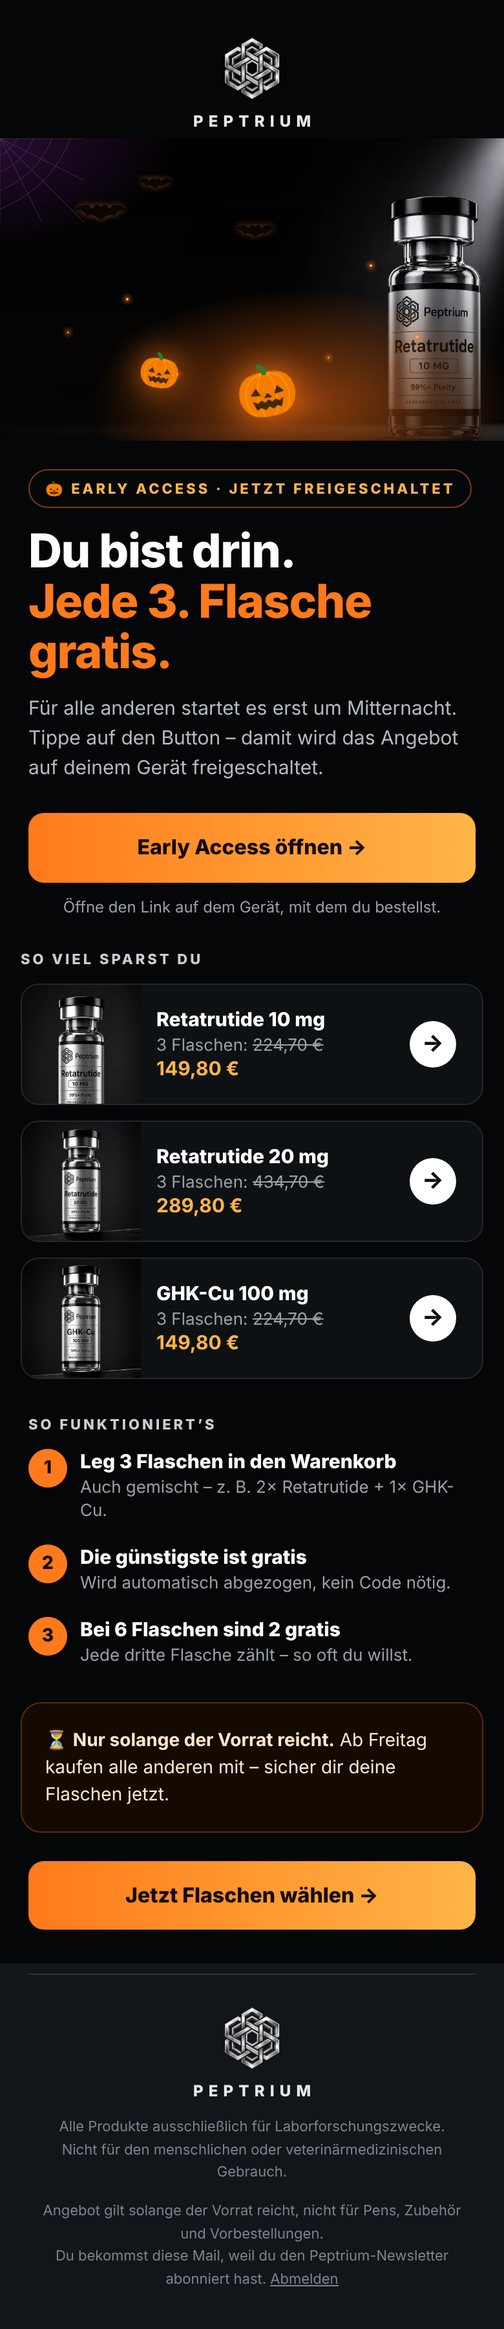
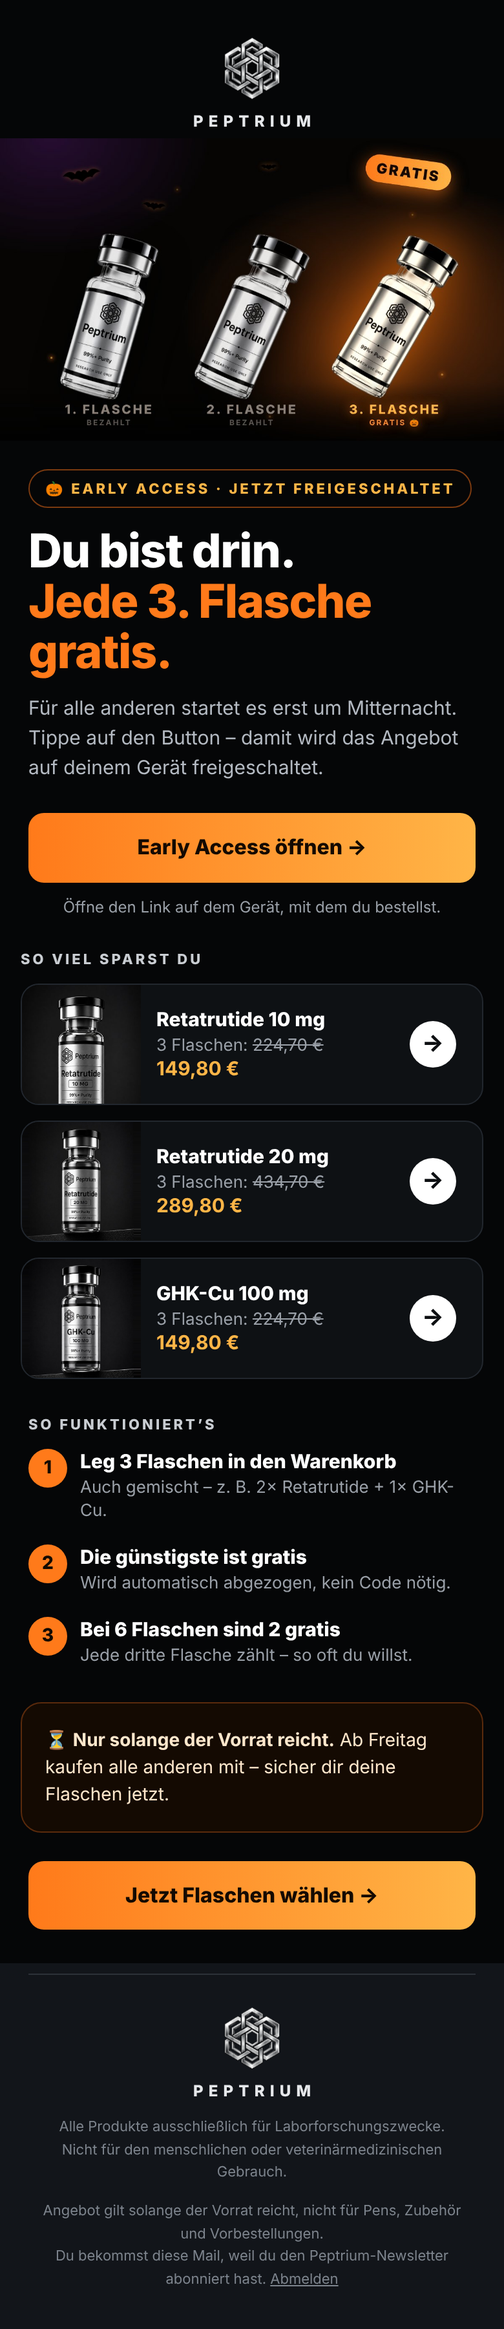
Halloween: Kauf-Anreize (Countdown, Spar-Block, Gratis-Flasche per Klick), Mail-Bild mit 1./2./3. Flasche
Claude-Session: https://claude.ai/code/session_011YY7DBkbr5BcFGKyLoSbVN

Changed region(s): [[0.1231, 0.0622, 1.0, 0.1865]]

diff --git a/drafts/halloween-2026-10-22/mails/hv/a.html b/drafts/halloween-2026-10-22/mails/hv/a.html
@@ -1,17 +1,18 @@
 <!doctype html><html><head><meta charset="utf-8"><link rel="stylesheet" href="base.css"><style>
 body{background:radial-gradient(60% 70% at 78% 62%,rgba(255,110,20,.42),transparent 70%),radial-gradient(45% 55% at 10% 0%,rgba(110,30,150,.30),transparent 70%),#060504}
-.v{position:absolute;bottom:60px;width:300px}
+.v{position:absolute;bottom:96px;width:270px}
 .v img{width:100%;display:block;filter:drop-shadow(0 30px 40px rgba(0,0,0,.8))}
-.v1{left:110px;transform:rotate(-6deg);opacity:.92}.v2{left:450px;transform:rotate(2deg);opacity:.92}
-.v3{left:790px;transform:rotate(8deg)}
+.v1{left:125px;transform:rotate(-6deg);opacity:.92}.v2{left:465px;transform:rotate(2deg);opacity:.92}
+.v3{left:805px;transform:rotate(8deg)}
 .v3 img{filter:drop-shadow(0 0 60px rgba(255,122,26,.75)) drop-shadow(0 30px 40px rgba(0,0,0,.6)) sepia(.25) saturate(1.4)}
 .n{position:absolute;bottom:22px;width:300px;text-align:center;font:800 26px/1 Inter,Arial;letter-spacing:.2em;color:#6E655D}
 .tag{position:absolute;left:870px;top:48px;background:linear-gradient(90deg,#FF7A1A,#FFB547);color:#140A02;font:900 34px/1 Inter,Arial;letter-spacing:.12em;padding:16px 26px;border-radius:99px;transform:rotate(8deg);box-shadow:0 12px 40px rgba(255,122,26,.6)}
+.lb{position:absolute;bottom:34px;width:300px;text-align:center;font:800 30px/1 Inter,Arial;letter-spacing:.14em;color:#8A8078;z-index:3}.lb.g{color:#FFB547;text-shadow:0 0 24px rgba(255,122,26,.7)}.lb small{display:block;font:700 18px/1 Inter,Arial;letter-spacing:.2em;margin-top:8px;color:#5E5650}.lb.g small{color:#FF8A2A}
 .floor{position:absolute;left:0;right:0;bottom:0;height:140px;background:linear-gradient(180deg,transparent,rgba(0,0,0,.85))}
 </style></head><body>
 <svg viewBox="0 0 24 12" class="bat" style="left:150px;top:70px;width:90px;height:45px;transform:rotate(-8deg)"><path d="M0 4C3 1 6 1 8 3.5 9 1.5 10.5 1 12 2.6 13.5 1 15 1.5 16 3.5 18 1 21 1 24 4 21.5 4 19.6 5 18.6 7 16.8 6 14.6 6.4 12 9 9.4 6.4 7.2 6 5.4 7 4.4 5 2.5 4 0 4Z"/></svg><svg viewBox="0 0 24 12" class="bat" style="left:340px;top:150px;width:54px;height:27px;transform:rotate(6deg)"><path d="M0 4C3 1 6 1 8 3.5 9 1.5 10.5 1 12 2.6 13.5 1 15 1.5 16 3.5 18 1 21 1 24 4 21.5 4 19.6 5 18.6 7 16.8 6 14.6 6.4 12 9 9.4 6.4 7.2 6 5.4 7 4.4 5 2.5 4 0 4Z"/></svg><svg viewBox="0 0 24 12" class="bat" style="left:620px;top:60px;width:40px;height:20px"><path d="M0 4C3 1 6 1 8 3.5 9 1.5 10.5 1 12 2.6 13.5 1 15 1.5 16 3.5 18 1 21 1 24 4 21.5 4 19.6 5 18.6 7 16.8 6 14.6 6.4 12 9 9.4 6.4 7.2 6 5.4 7 4.4 5 2.5 4 0 4Z"/></svg>
 <i class="ember" style="left:120px;top:520px;opacity:.7"></i><i class="ember" style="left:260px;top:610px;opacity:.5"></i><i class="ember" style="left:1050px;top:560px;opacity:.6"></i><i class="ember" style="left:980px;top:180px;opacity:.4;width:4px;height:4px"></i><i class="ember" style="left:640px;top:660px;opacity:.6"></i><i class="ember" style="left:420px;top:120px;opacity:.35;width:4px;height:4px"></i>
 <div class="v v1"><img src="https://peptrium.com/wp-content/uploads/2026/08/retatrutide-tilted-glass-v3.png"></div><div class="v v2"><img src="https://peptrium.com/wp-content/uploads/2026/08/retatrutide-tilted-glass-v3.png"></div><div class="v v3"><img src="https://peptrium.com/wp-content/uploads/2026/08/retatrutide-tilted-glass-v3.png"></div>
 <div class="floor"></div>
-<div class="tag">GRATIS</div>
+<div class="tag">GRATIS</div><div class="lb" style="left:110px">1. FLASCHE<small>BEZAHLT</small></div><div class="lb" style="left:450px">2. FLASCHE<small>BEZAHLT</small></div><div class="lb g" style="left:790px">3. FLASCHE<small>GRATIS 🎃</small></div>
 </body></html>

diff --git a/drafts/halloween-2026-10-22/sp-halloween.php b/drafts/halloween-2026-10-22/sp-halloween.php
@@ -331,7 +331,7 @@ add_action('wp_footer', function () {
 add_action('wp_footer', function () {
     if (!sp_hw_active() || !function_exists('is_checkout') || !is_checkout() || is_order_received_page()) return;
     ?>
-<style>#sp-hw-co{display:flex;justify-content:space-between;align-items:center;gap:10px;margin:8px 16px;padding:11px 14px;border-radius:12px;background:linear-gradient(135deg,#140A02,#2A1306);border:1px solid rgba(255,122,26,.45);color:#FFE7CC;font:600 14px/1.35 -apple-system,BlinkMacSystemFont,"Segoe UI",Inter,sans-serif}#sp-hw-co b{color:#FFB547;font-size:15px;white-space:nowrap}</style>
+<style>#sp-hw-co{display:flex;justify-content:space-between;align-items:center;gap:10px;margin:8px 16px;padding:11px 14px;border-radius:12px;background:linear-gradient(135deg,#140A02,#2A1306);border:1px solid rgba(255,122,26,.45);color:#FFE7CC;font:600 14px/1.35 -apple-system,BlinkMacSystemFont,"Segoe UI",Inter,sans-serif}#sp-hw-co b{color:#FFB547;font-size:15px;white-space:nowrap}#sp-hw-co .cdl{font-size:12px;color:#E8C9A8;margin-top:3px;font-variant-numeric:tabular-nums}#sp-hw-co .cdl span{color:#fff;font-weight:700}</style>
 <script>(function(){var t=0;function run(){if(t)return;t=setTimeout(function(){t=0;if(!window.wp||!wp.data)return;var st=wp.data.select('wc/store/cart');if(!st)return;var c=st.getCartData();if(!c||!c.items)return;
  var save=0,free=0;c.items.forEach(function(it){var hw=(it.item_data||[]).filter(function(d){return /Halloween/.test(d.name||d.key||'')})[0];if(!hw)return;var tt=it.totals||{};save+=(parseInt(tt.line_subtotal,10)-parseInt(tt.line_total,10))||0;free+=parseInt(String(hw.value||'').replace(/[^0-9]/g,''),10)||0;});
  var minor=(c.totals&&c.totals.currency_minor_unit)||2,box=document.getElementById('sp-hw-co');
@@ -340,7 +340,10 @@ add_action('wp_footer', function () {
  if(!box){box=document.createElement('div');box.id='sp-hw-co';}
  if(box.nextElementSibling!==anchor)anchor.parentNode.insertBefore(box,anchor);
  var v=(save/Math.pow(10,minor)).toLocaleString('de-DE',{minimumFractionDigits:2,maximumFractionDigits:2})+'\u00a0€';
- box.innerHTML='<span>🎃 Halloween: '+free+' Flasche'+(free>1?'n':'')+' gratis</span><b>−'+v+'</b>';},300);}
+ box.innerHTML='<div><span>🎃 Halloween: '+free+' Flasche'+(free>1?'n':'')+' gratis</span><div class="cdl">⏳ Endet in <span id="sp-hw-co-cd">'+cdt()+'</span></div></div><b>−'+v+'</b>';},300);}
+var E=<?php echo (int) sp_hw_opt()['end'] * 1000; ?>;function p2(n){return (n<10?'0':'')+n}
+function cdt(){var s=Math.max(0,Math.floor((E-Date.now())/1000)),d=Math.floor(s/86400);return (d?d+' T · ':'')+p2(Math.floor(s%86400/3600))+':'+p2(Math.floor(s%3600/60))+':'+p2(s%60);}
+setInterval(function(){var x=document.getElementById('sp-hw-co-cd');if(x)x.textContent=cdt();},1000);
 var iv=setInterval(function(){if(window.wp&&wp.data){clearInterval(iv);wp.data.subscribe(run);run();}},300);})();</script>
     <?php
 }, 130);
@@ -416,6 +419,13 @@ add_action('wp_head', function () {
 #sp-hw-bb b{color:var(--hw-or2);display:block;font-size:13px;letter-spacing:.08em;margin-bottom:2px}
 #rx-tiers .rx-tier[data-q="3"] .rx-tier__disc,#rx-tiers .rx-tier[data-q="5"] .rx-tier__disc,#rx-tiers .rx-tier[data-q="10"] .rx-tier__disc{color:#B94A00!important}
 /* Warenkorb */
+#sp-hw-bb .ex{margin-top:8px;font-size:15px;color:#fff}#sp-hw-bb .ex s{color:#A89888;margin-right:4px}#sp-hw-bb .ex strong{color:var(--hw-or2);font-size:17px}
+#sp-hw-bb .cdl,#sp-hw-sum .cdl{margin-top:6px;font-size:12.5px;color:#E8C9A8;font-variant-numeric:tabular-nums}#sp-hw-bb .cdl span,#sp-hw-sum .cdl span{color:#fff;font-weight:700}
+#sp-hw-bb .t3{margin-top:10px;width:100%;border:0;border-radius:10px;padding:11px 12px;background:linear-gradient(90deg,var(--hw-or),var(--hw-or2))!important;color:#140A02!important;font:800 14.5px/1 -apple-system,BlinkMacSystemFont,"Segoe UI",Inter,sans-serif;cursor:pointer;box-shadow:none!important}
+#sp-hw-cd .add{display:block;margin-top:8px;width:100%;border:0;border-radius:9px;padding:9px 10px;background:linear-gradient(90deg,var(--hw-or),var(--hw-or2))!important;color:#140A02!important;font:800 13.5px/1.2 -apple-system,BlinkMacSystemFont,"Segoe UI",Inter,sans-serif;cursor:pointer;box-shadow:none!important;text-align:center}
+#sp-hw-cd .add[disabled]{opacity:.6}
+#sp-hw-sum{margin:6px 0 10px;background:linear-gradient(135deg,#140A02,#2A1306);color:#FFE7CC;border:1px solid rgba(255,122,26,.45);border-radius:12px;padding:10px 12px;font:600 13.5px/1.35 -apple-system,BlinkMacSystemFont,"Segoe UI",Inter,sans-serif}
+#sp-hw-sum .row{display:flex;justify-content:space-between;gap:8px;align-items:center}#sp-hw-sum .row b{color:var(--hw-or2);font-size:16px;white-space:nowrap}
 #sp-hw-cd{margin:10px 14px 4px;background:#140A02;color:#FFE7CC;border:1px solid rgba(255,122,26,.45);border-radius:12px;padding:10px 12px;font:600 13.5px/1.4 -apple-system,BlinkMacSystemFont,"Segoe UI",Inter,sans-serif;display:flex;gap:10px;align-items:center}
 #sp-hw-cd .bar{flex:1;height:6px;border-radius:6px;background:rgba(255,255,255,.12);overflow:hidden;margin-top:6px}
 #sp-hw-cd .bar i{display:block;height:100%;background:linear-gradient(90deg,var(--hw-or),var(--hw-or2));border-radius:6px;transition:width .3s}
@@ -489,6 +499,7 @@ add_action('wp_footer', function () {
 (function(){var C=<?php echo wp_json_encode($cfg); ?>;var live=C.state==='live'||C.state==='early';
 var DE=['So','Mo','Di','Mi','Do','Fr','Sa'];
 function pad(n){return (n<10?'0':'')+n}
+function cdt(){var l=left(C.end);return (l.d?l.d+(l.d>1?' Tagen ':' Tag ')+'· ':'')+pad(l.h)+':'+pad(l.m)+':'+pad(l.s);}
 function left(t){var s=Math.max(0,Math.floor((t-Date.now())/1000));return {d:Math.floor(s/86400),h:Math.floor(s%86400/3600),m:Math.floor(s%3600/60),s:s%60,t:s}}
 var bat='<svg viewBox="0 0 24 12" class="sp-hw-bat XX"><path d="M0 4C3 1 6 1 8 3.5 9 1.5 10.5 1 12 2.6 13.5 1 15 1.5 16 3.5 18 1 21 1 24 4 21.5 4 19.6 5 18.6 7 16.8 6 14.6 6.4 12 9 9.4 6.4 7.2 6 5.4 7 4.4 5 2.5 4 0 4Z"/></svg>';
 /* Top-Banner */
@@ -518,7 +529,7 @@ if(C.home){var ht=0,hi=setInterval(function(){
  title.innerHTML='Jede 3. Flasche<br><span class="sp-hw-g">gratis.</span>';
  if(mob){m.classList.add('sp-hw-m');var tx=m.querySelector('.sp-hero2-text');if(tx)tx.classList.add('sp-hw-t');}
  if(sub)sub.innerHTML=live?(mob?'Die günstigste zahlst du nicht.':'Leg 3 Flaschen in den Warenkorb –<br>die günstigste zahlst du nicht.'):(mob?'Ab '+C.startT+' · Insider schon '+C.earlyT:'Ab '+C.startT+' für alle.<br>Newsletter-Abonnenten schon '+C.earlyT+'.');
- if(cta){cta.classList.add('sp-hw-cta');if(live){cta.firstChild.nodeValue='Jetzt sichern ';}else{cta.setAttribute('href','#sp-nlh');cta.firstChild.nodeValue='Eintragen & früher dabei ';}
+ if(cta){cta.classList.add('sp-hw-cta');if(live){cta.firstChild.nodeValue='3 für 2 sichern ';}else{cta.setAttribute('href','#sp-nlh');cta.firstChild.nodeValue='Eintragen & früher dabei ';}
   var cw=cta.parentElement;if(mob&&cw)cw.classList.add('sp-hw-cw');
   var vr='<div class="sp-hw-vr"><i></i>'+(live?'Nur solange der Vorrat reicht':'Begrenzter Vorrat – Insider kaufen zuerst')+'</div>';
   if(mob&&cw)cw.insertAdjacentHTML('afterbegin',vr);else if(sub)sub.insertAdjacentHTML('afterend',vr);
@@ -554,7 +565,11 @@ var own=0;function fix(){if(own||!tot||!qf||!pe)return;var q=parseInt(qf.value,1
  own=1;tot.textContent=fm(u*(q-fr)+add);if(sav){if(fr>0){sav.style.display='';sav.textContent='🎃 '+fr+'× gratis – du sparst '+fm(u*fr);}else{sav.style.display='none';}}setTimeout(function(){own=0},0);}
 if(C.pp&&tot){new MutationObserver(fix).observe(tot,{childList:true,characterData:true,subtree:true});fix();}
 /* Buybox-Hinweis */
-if(C.pp){var bb=document.getElementById('rx-buybox');if(bb&&!document.getElementById('sp-hw-bb')){bb.insertAdjacentHTML('afterbegin','<div id="sp-hw-bb"><b>🎃 HALLOWEEN-SPECIAL</b>Jede 3. Flasche gratis – leg 3 Flaschen in den Warenkorb, die günstigste zahlst du nicht. Auch gemischt mit anderen Peptiden. Nur solange der Vorrat reicht.</div>');}}
+if(C.pp){var bb=document.getElementById('rx-buybox');if(bb&&!document.getElementById('sp-hw-bb')){bb.insertAdjacentHTML('afterbegin','<div id="sp-hw-bb"><b>🎃 HALLOWEEN-SPECIAL</b>Jede 3. Flasche gratis – die günstigste zahlst du nicht. Auch gemischt mit anderen Peptiden.<div class="ex"></div><div class="cdl">⏳ Endet in <span></span> · solange der Vorrat reicht</div><button type="button" class="t3">3 Flaschen wählen – 1 gratis</button></div>');
+ var hb=document.getElementById('sp-hw-bb'),hx=hb.querySelector('.ex'),hc=hb.querySelector('.cdl span');
+ var upd=function(){var pr=document.getElementById('rx-price');var u=pr?num(pr.textContent):0;hx.innerHTML=u>0?'3 Flaschen: <s>'+fm(u*3)+'</s> <strong>'+fm(u*2)+'</strong>':'';hc.textContent=cdt();};
+ upd();setInterval(upd,1000);
+ hb.querySelector('.t3').addEventListener('click',function(){var t=document.querySelector('#rx-tiers .rx-tier[data-q="3"],.rx-tier[data-q="3"]');if(t)t.click();var a=document.querySelector('.single_add_to_cart_button');if(a){setTimeout(function(){a.scrollIntoView({behavior:'smooth',block:'center'});},150);}});}}
 /* Warenkorb-Hinweis */
 var busy=0;function cart(){if(busy)return;busy=setTimeout(function(){busy=0;fetch('/wp-json/wc/store/v1/cart',{credentials:'same-origin'}).then(function(r){return r.json()}).then(function(c){
  var n=0;(c.items||[]).forEach(function(it){if(ids[it.id]&&parseInt(it.prices&&it.prices.regular_price||0,10)>0&&!(it.item_data||[]).some(function(d){return /Geschenk/i.test(d.name||d.key||'')}))n+=it.quantity;});
@@ -562,8 +577,20 @@ var busy=0;function cart(){if(busy)return;busy=setTimeout(function(){busy=0;fetc
  if(!box){box=document.createElement('div');box.id='sp-hw-cd';sc.insertAdjacentElement('afterbegin',box);}
  var r=n%3,f=Math.floor(n/3),need=3-r;
  var txt=n===0?'Jede 3. Flasche ist gratis – leg 3 in den Warenkorb.':(r===0?'✓ '+f+' Flasche'+(f>1?'n':'')+' gratis! Noch 3 für die nächste.':'Noch '+need+' Flasche'+(need>1?'n':'')+', dann ist eine gratis.'+(f?' ('+f+' schon gratis)':''));
- box.innerHTML='<span style="font-size:22px">🎃</span><div style="flex:1">'+txt+'<div class="bar"><i style="width:'+(r/3*100)+'%"></i></div></div>';
+ var ch=null;(c.items||[]).forEach(function(it){if(!ids[it.id]||(it.item_data||[]).some(function(d){return /Geschenk/i.test(d.name||d.key||'')}))return;var rp=parseInt(it.prices&&it.prices.regular_price||0,10);if(rp>0&&(!ch||rp<ch.rp))ch={id:it.id,rp:rp,name:it.name+((it.variation||[]).length?' '+it.variation.map(function(v){return v.value}).join(' '):'')};});
+ var btn=(r===2&&ch)?'<button type="button" class="add" data-id="'+ch.id+'">+ 1× '+ch.name+' dazu – gratis 🎃</button>':'';
+ box.innerHTML='<span style="font-size:22px">🎃</span><div style="flex:1">'+txt+'<div class="bar"><i style="width:'+(r/3*100)+'%"></i></div>'+btn+'</div>';
+ var save=0;(c.items||[]).forEach(function(it){if(!(it.item_data||[]).some(function(d){return /Halloween/.test(d.name||d.key||'')}))return;var tt=it.totals||{};save+=(parseInt(tt.line_subtotal,10)-parseInt(tt.line_total,10))||0;});
+ var minor=(c.totals&&c.totals.currency_minor_unit)||2,anc=document.getElementById('sp-cd-dhl'),sm=document.getElementById('sp-hw-sum');
+ if(anc&&n>0){if(!sm){sm=document.createElement('div');sm.id='sp-hw-sum';}if(sm.nextElementSibling!==anc)anc.parentNode.insertBefore(sm,anc);
+  sm.innerHTML=(save>0?'<div class="row"><span>🎃 Halloween-Angebot: du sparst</span><b>−'+fm(save/Math.pow(10,minor))+'</b></div>':'<div class="row"><span>🎃 Noch '+need+' Flasche'+(need>1?'n':'')+' bis zur Gratis-Flasche</span></div>')+'<div class="cdl">⏳ Angebot endet in <span>'+cdt()+'</span></div>';}
+ else if(sm){sm.remove();}
+ var sr=document.getElementById('sp-cd-total-savings-row'),sv=document.getElementById('sp-cd-total-savings-val');if(sr&&sv){sr.style.visibility=(save>0&&Math.abs(num(sv.textContent)-save/Math.pow(10,minor))<0.02)?'hidden':'';if(sr.style.visibility==='hidden')sr.style.height='0',sr.style.margin='0',sr.style.overflow='hidden';else sr.style.height=sr.style.margin='';}
  });},400);}
+setInterval(function(){var s=document.querySelector('#sp-hw-sum .cdl span');if(s)s.textContent=cdt();},1000);
+document.addEventListener('click',function(e){var b=e.target.closest('#sp-hw-cd .add');if(!b)return;b.disabled=true;b.textContent='Wird hinzugefügt …';
+ var fd=new FormData();fd.append('product_id',b.getAttribute('data-id'));fd.append('quantity','1');
+ fetch('/?wc-ajax=add_to_cart',{method:'POST',body:fd,credentials:'same-origin'}).then(function(r){return r.json()}).then(function(d){if(window.jQuery&&d&&d.fragments)jQuery(document.body).trigger('added_to_cart',[d.fragments,d.cart_hash]);else if(window.jQuery)jQuery(document.body).trigger('added_to_cart');}).catch(function(){b.disabled=false;});});
 var items=document.getElementById('sp-cd-items');if(items){new MutationObserver(cart).observe(items,{childList:true,subtree:true});}
 if(window.jQuery)jQuery(document.body).on('added_to_cart removed_from_cart',cart);
 document.addEventListener('click',function(e){if(e.target.closest('#sp-cart-fab'))cart();});

diff --git a/CLAUDE.md b/CLAUDE.md
@@ -248,7 +248,7 @@ ones with established, understood behavior from this engagement. Run a
 | `sp-ek-marge.php` | (2026-10-18, live, user: "brutto bzw richtigen netto Umsatz abzüglich EK") **Peptrium Dashboard → Umsatz & Marge** — **redesigned 2026-10-18 (user: 'komplett verwirrend … schöner')**: page title 'Umsatz & Gewinn', period chips, 3 cards with waterfall rows (`.spm-*` CSS, bars = share of revenue, one-line 'why' per row): 1. 'Was du verdient hast' Umsatz − Ware − Provisionen − Versand & Verpackung = Gewinn; 2. 'Was davon wirklich auf dem Konto ist' Eingenommen − Einkäufe bezahlt − An Partner überwiesen − Versand = Geld übrig + 'Warum anders als der Gewinn?' (Einkäufe − Wareneinsatz = mehr eingekauft als verkauft; Provision verdient − überwiesen); 3. 'Wenn das Lager verkauft wird' 3 boxes (kommt noch rein Lager / + unterwegs, Geld übrig danach). Product/order/EK tables unchanged below. (`admin.php?page=sp-umsatz-marge`, default this month, quick links Letzter Monat / Seit Start). EK per product/variation in option `sp_ek_items` [post_id => usd/eur/code] — seeded from the user's supplier Excel (column "Flasche $: 1–30"): 555 RT10 9.5 $, 556 RT20 12.2, 1011 CU50 3.3, 1012 CU100 6.5, 71 MS10 7.1, 77 CP10 10, 428 BC10 6.5, 577 BT10 17.5, 578 BT5 9, 434 XA10 8, 437 SK10 8, 515 KP10 6.5, 512 TSM10 18, 521 IG1 20. **Added 2026-10-18 (user prices, €):** pens are assembled in-house from the peptide bottle + pen (10 Stk 25 € → 2,50) + cartridge (30 Stk 14 € → 0,4667) → pen variations 547/548/549 (RT20/30/40), 597/598 (CU50/100), 544/545 (MS20/40) = usd of the bottle + field `add` 2.9667 €; Spritzen 100 Stk 25 € → product 80 (10er) 2,50 €; Pen Nadeln 100 Stk 15 € → 908 (15er) 2,25 €; Injektionskit 745 = ASSUMPTION 10 Spritzen 2,50 € (contents unconfirmed); costs: DHL DE 6,19 / AT 14,90 (`ship_order_at`, by shipping country), packaging 0,20 €/package (100 Stk 20 €), import_pct 0. **Update 2026-10-18:** Bac Water 74 = 1 $ (user); every pen also contains one Bac Water → pen usd = bottle + 1 $; Alkoholtupfer 400 Stk 5 € → Injektionskit 745 = 10 Spritzen + 10 Tupfer = 2,625 € (still an assumption about the contents). ALL bottles (peptides + Bac Water) are bought in USD → keep them in the `usd` field; only Spritzen/Nadeln/Pen/Kartusche/Tupfer/Verpackung/DHL are €. Now every sold item has an EK. Later the same day: Injektionskit 745 = 10 Spritzen + 1 Bac Water + Tupfer (usd = Bac, add 2,625 €); Bac Water shipping 70 $ for 120 bottles → Bac = 1,5833 $ (74, pens = bottle + 1,5833 $, 745). Peptide shipping from the supplier was free; the user will send the stock quantities bought later. All editable in the EK table on that page ($ or €). USD→EUR from open.er-api.com (daily cron `sp_ek_rate_update`, option `sp_ek_rate`, manual override `sp_ek_rate_manual`). Costs option `sp_ek_costs` (import_pct, ship_order, pack_order). On processing/completed the unit EK is written to item meta `_sp_ek_eur` (snapshot, so later EK changes don't rewrite past months); older items use the current EK ("geschätzt"). Old GHK-Cu items (simple product 68) fall back via `sp_bbv_legacy_variation()`. Figures per order (`sp_ek_order_figures()`): Umsatz = total − refunds − top-up part (no VAT — shop has tax off), wallet-paid Abo deliveries count, top-up-only and `_sp_is_test` orders excluded; gifts count toward EK; partner commissions = non-rejected `wp_slicewp_commissions` with reference = order id; line revenue scaled by the partner negative fee. First run (Seit Start, 44 orders): Umsatz 8.093,67 €, EK 499,24 € (97 items without EK!), Provisionen 1.174,81 €. |
 | `sp-lager.php` | (2026-10-18, live, user: "ja richtig") **Peptrium Dashboard → Lager** (`admin.php?page=sp-lager`). Stock on MATERIAL level: option `sp_lager_mats` [code => name, usd|eur, qty (null = not tracked)] — codes = supplier codes (RT10/RT20/RT30/RT40, CU50/CU100, MS10/20/40, CP10, BC10, BT10/BT5, XA10, SK10, KP10, TSM10, IG1, CGL10 Cagrilintide, ML10 Melanotan 2, K80 Klow — the last 3 not in the shop) + BAC (1,5833 $), PEN/KART/SPR/NAD/TUPF (€, not counted yet → null). Recipes `sp_lager_recipes()` per product/variation id (pens = bottle + BAC + PEN + KART; 80 = 10 SPR; 908 = 15 NAD; 745 = 10 SPR + 1 BAC + 10 TUPF; legacy 68 via `sp_bbv_legacy_variation`). Deducted when an order goes to **completed** (= shipped; meta `_sp_lager_out`, only if completed after option `sp_lager_since` = 2026-10-18 12:37), added back on cancelled/refunded/failed. Columns: Bestand, reserviert (processing orders), verfügbar, unterwegs, Verkauf 30 Tage (incl. gifts), reicht noch (yellow < 21 d). Deliveries in option `sp_lager_in` (button "Angekommen – einbuchen"); seeded: Peptid-Lieferant 18.10. (RT10 40, RT20 30, CGL10 10, BC10 10, CU50 40, ML10 10, K80 10, BAC 20) + Bac-Lieferant (BAC 120). Start count 18.10.: RT10 50, RT20 30, CU100 10, BAC 40, all other bottles 0. Warning box lists in-stock shop products whose material is empty (at seed: GHK-Cu 50 + GHK pen 50, MOTS-c 10 + MOTS pens, Reta pens 30/40, CJC) — shop stock status NOT changed automatically (asked the user). Log option `sp_lager_log`. User 2026-10-18: no pre-assembled pens (assembled only when an order comes in → recipe deduction is right); accessories (PEN/KART/SPR/NAD/TUPF) are in stock but NOT counted yet → stay null until the user sends counts. **Purchases are paid when ordered (user 2026-10-18):** each delivery stores `paid` (€, frozen at creation, editable on the card; date = ordered & paid) — seeded 1.248,11 € (1403 $) + 169,02 € (190 $); 'Angekommen' only books stock. `sp_lager_purchases($start,$end)` feeds a **'Geldfluss im Zeitraum'** box in Umsatz & Marge: Eingenommen − Einkäufe bezahlt − An Partner überwiesen (`sp_aff_transfers` by date) − Versand & Verpackung = Geld übrig (the 'Ergebnis' above stays accrual: EK counted when sold). Delivery dates were assumed 18.10. — ask the user for the real order dates/amounts. **Abverkauf-Wert (2026-10-18, user):** tiles 'Umsatz bei Abverkauf – Lager' / '… inkl. unterwegs' + Rohertrag; VK per material = optional field `vk` (column 'VK €') else the shop price of the product whose recipe is exactly [code=>1] (`sp_lager_vk()`; RT20 counted as vial, not pen); regular prices, no discounts/gifts/commission. At build: Lager 9.237 €, incl. unterwegs 19.901,20 €; CGL10/ML10/K80 have no VK (not in shop) → excluded until a VK is entered. **Umsatz & Marge also shows 'Wenn das Lager komplett verkauft wird'** (via `sp_lager_summary()`): Listenpreis → realistic revenue = list × realisation ratio of the last 90 days (line revenue ÷ regular price × qty, catches bundle/partner discounts, codes, gifts; 89 % at build) − commissions at the 90-day share (14,5 %) = 'kommt noch rein'; **EK is NOT deducted there** (user 2026-10-18: purchases are already paid → shown only as grey 'Einkaufswert (schon bezahlt)'), plus 'Geld übrig danach' = Geldfluss 'Geld übrig' of the selected period + 'kommt noch rein'. Shipping not deducted. At build (Oct): kommt noch rein 7.029 € (Lager) / 15.143 € (incl. unterwegs); Geld übrig danach 10.066 € / 18.181 €. Material prices are separate from `sp_ek_items` (duplicate on purpose; keep both in sync when prices change). |
 | `sp-wartung.php` | (2026-10-19, live, OFF by default) **Wartungsmodus** after the AlexHost KVM maintenance reboot (server down ~5 min 19.10. ~15:50 Berlin; all services auto-started, nothing to reconfigure). Peptrium Dashboard → Wartungsmodus (`admin.php?page=sp-wartung`): on/off, page text, auto-off after 30 min/1/2/4 h/never (option `sp_wartung` on/until/text/by/since). When on: visitors get the dark Peptrium maintenance page (logo, "Wir sind gleich wieder für dich da.", 60 s auto-reload, Telegram + mail) with HTTP 503, `Retry-After: 600`, `X-SP-Wartung: 1`, noindex (template_redirect prio −999); admins (`manage_woocommerce`) see the shop + red bottom bar + admin-bar node; untouched: wp-admin, login, REST/Store API, admin-ajax, cron, wc-api, `?sp_health=1`. Preview for admins: `/?sp_wartung_vorschau=1`. Tested live with a 15 s auto-off window. **Unplanned server outage:** WordPress can't answer then → same page as a **Cloudflare Worker** `drafts/wartungsseite-2026-10-19/peptrium-wartung-worker.js` (logo base64-embedded, passes everything through, replaces only HTML GET responses with status 502/503/504/520–526 or a thrown fetch; skips wp-admin/wp-json/wp-content/wp-includes/login/cron, `sp_health`, and 503s carrying `X-SP-Wartung`). Must be created by the user in Cloudflare (Workers & Pages → create → paste → route `peptrium.com/*` + `www.peptrium.com/*`, failure mode open; free plan 100k requests/day — optionally add a route `peptrium.com/wp-content/*` with no Worker to save requests). Logic unit-tested locally with mocked fetch. |
-| `sp-halloween.php` | (2026-10-22, live but **OFF**, user: jede 3. gratis (die günstigste), Partner +5 %, Early Access ja, Halloween-Look, alles mit einem Schalter) **Halloween-Modus** — Peptrium Dashboard → 🎃 Halloween (`admin.php?page=sp-halloween`), option `sp_hw` {on, deko, early/start/end timestamps (default Do 29.10. 18:00 / Fr 30.10. 00:00 / So 1.11. 23:59 Berlin), bonus 5, ea + pv tokens}, log `sp_hw_log`. States `sp_hw_state()`: off/teaser/early (only with EA cookie)/live/ended; `sp_hw_active()` = live or early. **Pricing:** `woocommerce_before_calculate_totals` prio 25 (after sp-quantity-discount 20, before gift tiers 30): eligible units (`sp_hw_product_eligible()`: published, not on sale, not Zubehör cat 20, not `sp_preorder_product_ids()`, not ids 729/817/745/908/74/80/393/395/396, not any product whose title contains the word 'Pen' (pens have no own category — so NEW pens are excluded too; user 2026-10-22: new products coming in a few days must join the action automatically → they do if published, in stock, regular price without sale price, not Zubehör, not in the preorder list); skips gift lines `sp_is_gift` and Abo lines) get their REGULAR price back (cancels the bundle discount), then floor(n/3) cheapest units free via set_price; `line_subtotal` restored to regular (prio 30) so the drawer shows savings; cart item key `sp_hw_free`, item data 'Halloween: N× gratis 🎃', order item meta 'Halloween-Angebot', order meta `_sp_hw` (free count) + `_sp_hw_phase`. Gift tiers count the PAID amount. **Codes (reworked 2026-10-22, user: "setz alles um so wie du es machen würdest"):** coupons and the 10-%-Empfehlungs-Rabatt give NO discount on action bottles but keep working on pens/Zubehör/other non-action lines — `woocommerce_coupon_get_discount_amount` → 0 for `sp_hw_item_in_action()` lines; non-partner coupons are rejected only if the cart has no non-action items (`sp_hw_other_subtotal()` = 0, message 'Rabattcodes gelten in der Zeit nur für Pens und Zubehör'); partner coupons (`_sp_affiliate_id`) always valid (attribution); the Empfehlungs-Rabatt fee is recomputed on `sp_hw_other_subtotal()` × SP_AFF_REFERRAL_DISCOUNT_PCT (fees prio 98; removed if 0). Tested: pen + 3× Reta + SCHLANK10/TIKTOK10/partner cookie 40 → pen −26,49 €, Reta 1 gratis; only Reta + TIKTOK10 → rejected. Early access is ONLY for newsletter subscribers (user 2026-10-22, after a short-lived partner-link variant was built and removed again; partners get the tip to tell followers to subscribe). Note: execute-php snippets containing a literal `$_COOKIE['…']=` get an EMPTY response (Cloudflare WAF) — build the key as a string; `slicewp_calculate_commission_amount` prio 30 adds bonus × item amount (at checkout time). **Links:** Early Access `/?sp_hw=frueh&k=<ea>` → cookie `sp_hw_ea` (until end+1 d) → 302 /alle-produkte/ (utm kept); preview `/?sp_hw=vorschau&k=<pv>` → cookie `sp_hw_pv` 24 h = everything live for that browser even when OFF; `/?sp_hw=aus` ends it (links shown on the admin page). **Look (`deko`):** top banner `#sp-top-banner` gets class `sp-hw` + own link `#sp-hw-tb` (countdown / teaser text) + 3 flying bat SVGs; **homepage HERO takeover** (user 2026-10-22: Halloween must be visible without scrolling): JS polls for the mobile hero `.sp-hero2` (sp-home-hero-mobile.php, title/sub/cta) or desktop `#sp-hero-banner .sp-hb-*` and sets eyebrow pill '🎃 HALLOWEEN-SPECIAL', title 'Jede 3. Flasche <orange>gratis.</orange>', sub (mobile short 'Die günstigste zahlst du nicht.' — longer text overlapped the vials), orange CTA '3 für 2 sichern' (teaser: 'Früher dabei sein' → #sp-nlh), countdown chips, overlay `.sp-hw-hov` (orange/purple glow, cobweb, 3 flying bats, rising embers, pumpkins desktop only); the old strip `.sp-hw-strip` is only a fallback if no hero is found; mini strip after the `#sp-cat` hero on categories/alle-produkte; card badge '🎃 3 für 2' on `.sp-pc[data-id]` in `sp_hw_eligible_ids()` (transient `sp_hw_ids_v1` 10 min) + card text 'ab 3 Stück…' → '🎃 Jede 3. Flasche gratis'; drawer 'Bundle −X%' → '🎃 Halloween'; buybox: output buffer (template_redirect prio 7) sets tier data-disc to 0 + labels '1 gratis/1 gratis/3 gratis', flag '🎃 Halloween', JS fixes `#rx-total`/`#rx-save` (buybox JS only knows integer % of the largest tier) + box `#sp-hw-bb`; drawer box `#sp-hw-cd` (Store API cart count, 'Noch N Flaschen, dann ist eine gratis'). Tested 2026-10-22 in preview via Store API (`drafts/halloween-2026-10-22/storetest.sh`): 3× Reta10 → 149,80; 2× Reta20 + GHK50 → GHK free; 6 mixed → 2 cheapest free; TIKTOK10 rejected with message; SCHLANK10 accepted, 0 €; pens/Bac untouched. Eligible at build: CJC, Mots-C, GHK-Cu 50/100, Reta 10/20 (shop stock status — Lager says CJC/Mots/GHK50 bottles are 0!). **Added 2026-10-22 (user: "ja mach"):** (a) newsletter popup copy per phase (JS on `#sp-nlp`): teaser = '🎃 Halloween früher für Insider' + early/start dates + button 'Ja, früher dabei sein'; live = '10 % Rabatt für deine nächste Bestellung' (codes don't work during the action, code valid 30 days); (b) confirming the newsletter during teaser/early (`?sp_nl=danke`, init prio 2) sets the `sp_hw_ea` cookie → early access on that device; (c) checkout row `#sp-hw-co` '🎃 Halloween: N Flasche(n) gratis −X €' before the total (wp.data cart store, throttled subscribe; only when active, independent of `deko`); (e) honest scarcity 'solange der Vorrat reicht' (user 2026-10-22, true — stock is limited): pill `.sp-hw-vr` in the hero (mobile: first child of the CTA wrap, which is moved to bottom 64px; desktop: under the sub) — live 'Nur solange der Vorrat reicht', teaser 'Begrenzter Vorrat – Insider kaufen zuerst'; also in the live top banner, buybox box, strips and the teaser popup text; (f) 'Nur noch wenige verfügbar' replaces the buybox `.rx-stock` text (amber) on ALL product pages while the action is active (except 729/745/817), switch `sp_hw['wenig']` (checkbox in admin, default on). User decision 2026-10-22: NO stock counting ("ich weiß wie viel ich selber als vorrat habe") — a first version based on sp-lager stock was replaced; user was told false scarcity claims are a UWG risk and takes responsibility; (d) preview can show the teaser phase: `/?sp_hw=vorschau&s=teaser&k=<pv>` (cookie `sp_hw_pvs`). Note: the checkout item line shows the REGULAR line total (224,70 for 3× Reta) + 'Spare' badge because `line_subtotal` is restored — same as the existing bundle discount behaviour; Zwischensumme is correct. Open: mails (teaser 28.10., early access 29.10. 18:00, last chance), partner info mail, user's go. |
+| `sp-halloween.php` | (2026-10-22, live but **OFF**, user: jede 3. gratis (die günstigste), Partner +5 %, Early Access ja, Halloween-Look, alles mit einem Schalter) **Halloween-Modus** — Peptrium Dashboard → 🎃 Halloween (`admin.php?page=sp-halloween`), option `sp_hw` {on, deko, early/start/end timestamps (default Do 29.10. 18:00 / Fr 30.10. 00:00 / So 1.11. 23:59 Berlin), bonus 5, ea + pv tokens}, log `sp_hw_log`. States `sp_hw_state()`: off/teaser/early (only with EA cookie)/live/ended; `sp_hw_active()` = live or early. **Pricing:** `woocommerce_before_calculate_totals` prio 25 (after sp-quantity-discount 20, before gift tiers 30): eligible units (`sp_hw_product_eligible()`: published, not on sale, not Zubehör cat 20, not `sp_preorder_product_ids()`, not ids 729/817/745/908/74/80/393/395/396, not any product whose title contains the word 'Pen' (pens have no own category — so NEW pens are excluded too; user 2026-10-22: new products coming in a few days must join the action automatically → they do if published, in stock, regular price without sale price, not Zubehör, not in the preorder list); skips gift lines `sp_is_gift` and Abo lines) get their REGULAR price back (cancels the bundle discount), then floor(n/3) cheapest units free via set_price; `line_subtotal` restored to regular (prio 30) so the drawer shows savings; cart item key `sp_hw_free`, item data 'Halloween: N× gratis 🎃', order item meta 'Halloween-Angebot', order meta `_sp_hw` (free count) + `_sp_hw_phase`. Gift tiers count the PAID amount. **Codes (reworked 2026-10-22, user: "setz alles um so wie du es machen würdest"):** coupons and the 10-%-Empfehlungs-Rabatt give NO discount on action bottles but keep working on pens/Zubehör/other non-action lines — `woocommerce_coupon_get_discount_amount` → 0 for `sp_hw_item_in_action()` lines; non-partner coupons are rejected only if the cart has no non-action items (`sp_hw_other_subtotal()` = 0, message 'Rabattcodes gelten in der Zeit nur für Pens und Zubehör'); partner coupons (`_sp_affiliate_id`) always valid (attribution); the Empfehlungs-Rabatt fee is recomputed on `sp_hw_other_subtotal()` × SP_AFF_REFERRAL_DISCOUNT_PCT (fees prio 98; removed if 0). Tested: pen + 3× Reta + SCHLANK10/TIKTOK10/partner cookie 40 → pen −26,49 €, Reta 1 gratis; only Reta + TIKTOK10 → rejected. Early access is ONLY for newsletter subscribers (user 2026-10-22, after a short-lived partner-link variant was built and removed again; partners get the tip to tell followers to subscribe). Note: execute-php snippets containing a literal `$_COOKIE['…']=` get an EMPTY response (Cloudflare WAF) — build the key as a string; `slicewp_calculate_commission_amount` prio 30 adds bonus × item amount (at checkout time). **Links:** Early Access `/?sp_hw=frueh&k=<ea>` → cookie `sp_hw_ea` (until end+1 d) → 302 /alle-produkte/ (utm kept); preview `/?sp_hw=vorschau&k=<pv>` → cookie `sp_hw_pv` 24 h = everything live for that browser even when OFF; `/?sp_hw=aus` ends it (links shown on the admin page). **Look (`deko`):** top banner `#sp-top-banner` gets class `sp-hw` + own link `#sp-hw-tb` (countdown / teaser text) + 3 flying bat SVGs; **homepage HERO takeover** (user 2026-10-22: Halloween must be visible without scrolling): JS polls for the mobile hero `.sp-hero2` (sp-home-hero-mobile.php, title/sub/cta) or desktop `#sp-hero-banner .sp-hb-*` and sets eyebrow pill '🎃 HALLOWEEN-SPECIAL', title 'Jede 3. Flasche <orange>gratis.</orange>', sub (mobile short 'Die günstigste zahlst du nicht.' — longer text overlapped the vials), orange CTA '3 für 2 sichern' (teaser: 'Früher dabei sein' → #sp-nlh), countdown chips, overlay `.sp-hw-hov` (orange/purple glow, cobweb, 3 flying bats, rising embers, pumpkins desktop only); the old strip `.sp-hw-strip` is only a fallback if no hero is found; mini strip after the `#sp-cat` hero on categories/alle-produkte; card badge '🎃 3 für 2' on `.sp-pc[data-id]` in `sp_hw_eligible_ids()` (transient `sp_hw_ids_v1` 10 min) + card text 'ab 3 Stück…' → '🎃 Jede 3. Flasche gratis'; drawer 'Bundle −X%' → '🎃 Halloween'; buybox: output buffer (template_redirect prio 7) sets tier data-disc to 0 + labels '1 gratis/1 gratis/3 gratis', flag '🎃 Halloween', JS fixes `#rx-total`/`#rx-save` (buybox JS only knows integer % of the largest tier) + box `#sp-hw-bb`; drawer box `#sp-hw-cd` (Store API cart count, 'Noch N Flaschen, dann ist eine gratis'). Tested 2026-10-22 in preview via Store API (`drafts/halloween-2026-10-22/storetest.sh`): 3× Reta10 → 149,80; 2× Reta20 + GHK50 → GHK free; 6 mixed → 2 cheapest free; TIKTOK10 rejected with message; SCHLANK10 accepted, 0 €; pens/Bac untouched. Eligible at build: CJC, Mots-C, GHK-Cu 50/100, Reta 10/20 (shop stock status — Lager says CJC/Mots/GHK50 bottles are 0!). **Added 2026-10-22 (user: "ja mach"):** (a) newsletter popup copy per phase (JS on `#sp-nlp`): teaser = '🎃 Halloween früher für Insider' + early/start dates + button 'Ja, früher dabei sein'; live = '10 % Rabatt für deine nächste Bestellung' (codes don't work during the action, code valid 30 days); (b) confirming the newsletter during teaser/early (`?sp_nl=danke`, init prio 2) sets the `sp_hw_ea` cookie → early access on that device; (c) checkout row `#sp-hw-co` '🎃 Halloween: N Flasche(n) gratis −X €' before the total (wp.data cart store, throttled subscribe; only when active, independent of `deko`); (e) honest scarcity 'solange der Vorrat reicht' (user 2026-10-22, true — stock is limited): pill `.sp-hw-vr` in the hero (mobile: first child of the CTA wrap, which is moved to bottom 64px; desktop: under the sub) — live 'Nur solange der Vorrat reicht', teaser 'Begrenzter Vorrat – Insider kaufen zuerst'; also in the live top banner, buybox box, strips and the teaser popup text; (f) 'Nur noch wenige verfügbar' replaces the buybox `.rx-stock` text (amber) on ALL product pages while the action is active (except 729/745/817), switch `sp_hw['wenig']` (checkbox in admin, default on). User decision 2026-10-22: NO stock counting ("ich weiß wie viel ich selber als vorrat habe") — a first version based on sp-lager stock was replaced; user was told false scarcity claims are a UWG risk and takes responsibility; (d) preview can show the teaser phase: `/?sp_hw=vorschau&s=teaser&k=<pv>` (cookie `sp_hw_pvs`). Note: the checkout item line shows the REGULAR line total (224,70 for 3× Reta) + 'Spare' badge because `line_subtotal` is restored — same as the existing bundle discount behaviour; Zwischensumme is correct. **Mobile fixes + 'jetzt kaufen' features 2026-10-22:** the Halloween banner CSS must NOT set `position:relative` on `#sp-top-banner` (it is `position:fixed`; relative made it scroll away → header gap/white strip, banner under the header on checkout); top banner has NO countdown (user); homepage hero waits for the mobile `.sp-hero2` on ≤767px (sp-home-hero-mobile builds it late — otherwise the hidden desktop hero got rewritten); `img.emoji` reset inside all sp-hw elements (a hero rule made emoji images absolute); live CTA '3 für 2 sichern', teaser CTA 'Eintragen & früher dabei'; card badge only 🎃 on mobile. Buybox box: '3 Flaschen: <s>3×</s> 2× price' from `#rx-price`, countdown, button '3 Flaschen wählen – 1 gratis' (clicks tier 3). Drawer: top box shows '+ 1× <cheapest action item> dazu – gratis 🎃' when count%3==2 (wc-ajax add_to_cart with the (variation) id → triggers added_to_cart); bottom block `#sp-hw-sum` before `#sp-cd-dhl` 'Halloween-Angebot: du sparst −X €' + countdown (default 'Du sparst' row hidden when equal). Checkout row `#sp-hw-co` has a countdown line. Mail drafts `drafts/halloween-2026-10-22/mails/` (gen.py, hero = `hv/a.html` 'drei Flaschen, 3. GRATIS' with labels → nl-hw-hero.jpg, not uploaded yet). Open: mails into Omnisend after the user's OK, partner info mail, user's go. |
 | `sp-indexnow.php` | (2026-10-11, live) **IndexNow** (Bing, Yandex, Seznam, Naver; DuckDuckGo/Ecosia/Yahoo/ChatGPT search use Bing — Google does NOT use IndexNow). Key in option `sp_indexnow_key` (32 hex), served as `/<key>.txt` by an `init` hook (prio 0, no rewrite). `save_post` on published, visible products/pages → submits the permalink on `shutdown` (max once per URL per 10 min, transient `sp_inx_<md5>`). `sp_indexnow_submit_all()` sends every sitemap URL (`sp_indexnow_all_urls()` walks the core sitemap providers, so it inherits the sitemap filters) — run once on 2026-10-11: 61 URLs → HTTP 202. Last result in option `sp_indexnow_last`. Context: user set up Bing Webmaster Tools via "Import from Google Search Console" (Google login) the same day; Cloudflare AI Crawl Control: Search + Agent = Allow, Training = Block (OpenAI/Anthropic/Perplexity), Bot Fight Mode off, Bot Preference Sync off. |
 | `sp-compliance.php` | (2026-10-11, live, user: "ja mach") **Render-time compliance fixes** (output buffer `template_redirect` prio 3 + `wp_mail` filter; no Elementor data touched). (1) Retatrutide: the `.sp-reta-desc` block containing "Abnehm-Peptide"/"24 % Körpergewichtsreduktion" is removed. (2) Peptrium-Pens: dose table `.sp-dose-table`, `.sp-dose-sub`, `.sp-dose-common` removed, title "Technische Referenz – Dosiszähler" → "Technische Daten", table rows "Maximale Dosen" and "Verabreichung (subkutan)" removed (device feature "Dosiszähler – exakt per Klick" stays). (3) **COAs don't exist yet** → while option `sp_cmp_coa` ≠ `'show'`: `.rx-coa-box` (disabled PDF button boxes, COA + CE) removed, FAQ `<details>` "Was ist ein Analysezertifikat (COA)?" removed, ~35 exact phrases in `sp_cmp_coa_map()` neutralised to "HPLC-/LC-MS-geprüft" (incl. "Janoshik" lab name on Über uns, fake-review sentences about certificates, "vollständigem Impressum" claim); mails via `sp_cmp_mail_map()`. Set `sp_cmp_coa`='show' once real COAs exist. (4) Menu: the "Nach Ziel suchen" drawer group (old goal labels "Gewichtsmanagement", "Fettverbrennung", "Anti-Aging", "Heilung") is rebuilt SERVER-SIDE as "Forschungsbereiche" with `sp_ds_menu_cats()` links (same markup as the sp-ds.php JS). Helper `sp_cmp_cut()` removes an element by depth-counting its tag. Also on 2026-10-11: product short descriptions (post_excerpt) rewritten without COA/skin claims (old in meta `_sp_excerpt_backup_20261011`; GHK-Cu no longer promises "glattere Haut"; Injektionskit no "Injizieren"); **category 17 renamed "Fettverlust" → "Stoffwechsel"** (slug `fettverlust` unchanged, old name in option `sp_cat17_name_backup`). |
 | `sp-product-about.php` | (2026-10-11, live, area `katalog`) The Elementor product templates never rendered the WooCommerce description → this shows `post_content` as section `#sp-pp-about` ("Produktinfo / Über <Name>", light card, collapsed to 300px with "Weiterlesen" when long, 2 columns ≥1024px), printed in `wp_footer` (server-side HTML for Google) and moved into `.pp-root` by JS; CSS `order:3!important` (**CSS order must be an integer** — 3.5 was silently ignored; `body.single-product .pp-root>*{order:50}` in pp.css), lands after "Passt dazu" sets, before the Lexikon. All 17 visible products got NEW descriptions (~200–250 words, du-form, research framing only: what it is, what is studied, Lieferform/Rekonstitution with links to Bac Water + Peptid-Rechner, Lagerung → Lagerungs-Guide, HPLC/LC-MS quality, Lexikon link, lab-only note; no effects, no dosing, no COA) — source `scratchpad/ptext2/texts.py`, copy in `drafts/produkttexte-2026-10-11.json`; old texts in meta `_sp_desc_backup_20261011`. **New products: fill the "Beschreibung" field → section appears automatically** (min 80 chars). |
